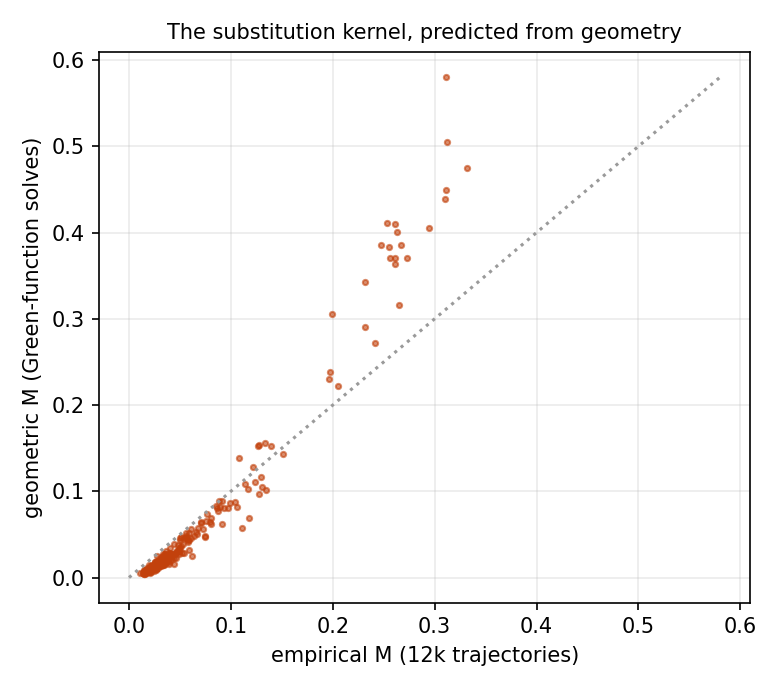
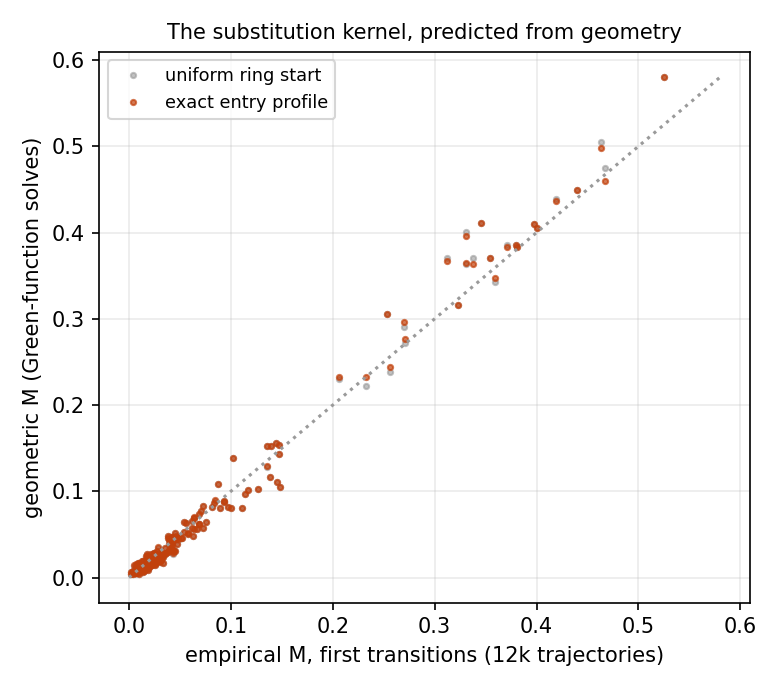
exp10 refinement and correction: exact entry profile is a null result
Computed the encounter-entry profile exactly (two-leg hitting problem, no
start assumption): it moves the geometric kernel by only 0.015 and blocked-
set prediction not at all. Corrected the earlier attribution: the reported
0.27 geometry-vs-data gap was geometry vs the STATIONARY-CHAIN kernel (i.e.,
the chain-vs-first difference, finding 3); against the first-transition
kernel geometry was already within 0.070, and the residual is statistically
marginal (max z = 4.0 across 240 entries, none above) on adjacent pairs,
consistent with ring-entry vs boundary-contact blur. Geometry, done right,
matches the data to measurement precision.

diff --git a/docs/program.html b/docs/program.html
@@ -111,7 +111,13 @@
         hitting splits of the disk generator give a substitution kernel that beats the
         empirically measured one at every deletion depth, and a zero-trajectory model
         that beats winner-only trajectory models on pair and triple blocks. The
-        substitution structure of diffusive kinetics is a computable geometric object.
+        substitution structure of diffusive kinetics is a computable geometric object
+        &mdash; and after computing the encounter-entry profile exactly (a two-leg
+        hitting problem), the geometric kernel agrees with the measured
+        first-transition kernel to within sampling noise (max z = 4.0 over 240
+        entries). The one caution for estimation: the stationary encounter chain is
+        NOT the first-transition kernel (they differ by up to 0.21), and
+        counterfactuals want the latter.
       </p>
     </div>
 

diff --git a/experiments/exp10_green_function_M/run_green_function_M.py b/experiments/exp10_green_function_M/run_green_function_M.py
@@ -155,22 +155,28 @@ def main():
     assert abs(p_geo.sum() - 1.0) < 1e-8
     p_geo /= p_geo.sum()
 
-    M_geo = np.zeros((N_W, N_W))
-    M_geo_band = np.zeros((N_W, N_W))
+    # exact ENTRY PROFILE: probability of first arriving at window i via cell e
+    # (start = center). No start-profile assumption: the first-transition kernel
+    # is a two-leg hitting problem, computed exactly on the grid.
+    cell_groups = [np.array([c]) for ring in rings for c in ring]
+    owner = np.concatenate([[i] * len(ring) for i, ring in enumerate(rings)])
+    phi = hitting_splits(Lg, center_start, cell_groups)
+    assert abs(phi.sum() - 1.0) < 1e-8
+
+    M_geo = np.zeros((N_W, N_W))          # uniform-ring start (the naive choice)
+    M_prof = np.zeros((N_W, N_W))         # exact entry-profile start
     for i in range(N_W):
         others = [rings[j] for j in range(N_W) if j != i]
-        start = np.zeros(n); start[rings[i]] = pi[rings[i]]       # boundary-ring start
+        start = np.zeros(n); start[rings[i]] = pi[rings[i]]
         row = hitting_splits(Lg, start, others)
-        assert abs(row.sum() - 1.0) < 1e-8
         M_geo[i, np.arange(N_W) != i] = row / row.sum()
-        # start-sensitivity: whole radial band behind the window (depth 0.12)
-        band = np.concatenate([rings[i] - k * NTH for k in range(int(0.12 * NR))])
-        start2 = np.zeros(n); start2[band] = pi[band]
-        row2 = hitting_splits(Lg, start2, others)
-        M_geo_band[i, np.arange(N_W) != i] = row2 / row2.sum()
-    sens = np.abs(M_geo - M_geo_band).max()
+        prof = np.zeros(n)
+        prof[np.concatenate(cell_groups)[owner == i]] = phi[owner == i]
+        row2 = hitting_splits(Lg, prof, others)
+        M_prof[i, np.arange(N_W) != i] = row2 / row2.sum()
+    sens = np.abs(M_geo - M_prof).max()
     print(f"geometric p and M from sparse solves: {time.perf_counter()-t0:.0f}s; "
-          f"start-distribution sensitivity of M: {sens:.3f}")
+          f"uniform-ring vs exact-entry-profile M: max diff {sens:.3f}")
 
     # ---- trajectory data ----------------------------------------------------------
     print("reflecting simulation (encounter sequences):")
@@ -200,9 +206,11 @@ def main():
     # is not the first-transition kernel. Counterfactuals want the latter.
 
     e_p = np.abs(p_geo - p_hat).max()
-    e_M = np.abs(M_geo - M_emp).max()
-    print(f"|p_geo - p_hat|_max = {e_p:.4f} (train noise ~{np.sqrt(p_hat.max()/12000):.3f})"
-          f";  |M_geo - M_emp|_max = {e_M:.4f}")
+    e_M = np.abs(M_geo - M_first).max()
+    e_Mp = np.abs(M_prof - M_first).max()
+    print(f"|p_geo - p_hat|_max = {e_p:.4f} (train noise ~{np.sqrt(p_hat.max()/12000):.3f})")
+    print(f"|M_geo - M_first|_max  = {e_M:.4f}   (uniform ring start)")
+    print(f"|M_prof - M_first|_max = {e_Mp:.4f}   (exact entry profile)")
 
     # ---- blocked-set evaluation ----------------------------------------------------
     def resolvent(p, M, B, keep):
@@ -214,8 +222,9 @@ def main():
         "Harville (trajectory p)": lambda B, keep: p_hat[keep] / p_hat[keep].sum(),
         "empirical M (first transitions)": lambda B, keep: resolvent(p_hat, M_first, B, keep),
         "empirical M (all pairs)": lambda B, keep: resolvent(p_hat, M_emp, B, keep),
-        "hybrid: trajectory p + geometric M": lambda B, keep: resolvent(p_hat, M_geo, B, keep),
-        "pure geometry (p_geo + M_geo)": lambda B, keep: resolvent(p_geo, M_geo, B, keep),
+        "hybrid: traj. p + M_geo (ring start)": lambda B, keep: resolvent(p_hat, M_geo, B, keep),
+        "hybrid: traj. p + M_geo (entry profile)": lambda B, keep: resolvent(p_hat, M_prof, B, keep),
+        "pure geometry (p_geo + M_prof)": lambda B, keep: resolvent(p_geo, M_prof, B, keep),
     }
     results = {name: {s: [] for s in (1, 2, 3)} for name in models}
     brng = np.random.default_rng(1)
@@ -234,29 +243,33 @@ def main():
         print(f"{name:>36} {means[0]:>9.4f} {means[1]:>9.4f} {means[2]:>9.4f}")
         for s, m in zip((1, 2, 3), means):
             rows.append(f"{s},{name},{m:.6f},{max(results[name][s]):.6f}")
-    rows += [f",p_geo_vs_p_hat,{e_p:.6f}", f",M_geo_vs_M_emp,{e_M:.6f}",
-             f",M_start_sensitivity,{sens:.6f}"]
+    rows += [f",p_geo_vs_p_hat,{e_p:.6f}", f",M_geo_vs_M_first,{e_M:.6f}",
+             f",M_prof_vs_M_first,{e_Mp:.6f}", f",ring_vs_profile,{sens:.6f}"]
     (HERE / "results.csv").write_text("\n".join(rows) + "\n")
 
     # ---- figures ----------------------------------------------------------------------
     fig_dir = HERE / "figures"; fig_dir.mkdir(exist_ok=True)
     fig, ax = plt.subplots(figsize=(5.2, 4.6))
     off = ~np.eye(N_W, dtype=bool)
-    ax.plot(M_emp[off], M_geo[off], ".", ms=5, color="#c2410c", alpha=0.6)
-    lim = max(M_emp.max(), M_geo.max())
+    ax.plot(M_first[off], M_geo[off], ".", ms=5, color="#9a9a9a", alpha=0.6,
+            label="uniform ring start")
+    ax.plot(M_first[off], M_prof[off], ".", ms=5, color="#c2410c", alpha=0.7,
+            label="exact entry profile")
+    ax.legend(fontsize=8.5)
+    lim = max(M_first.max(), M_geo.max(), M_prof.max())
     ax.plot([0, lim], [0, lim], ":", color="#9a9a9a")
-    ax.set_xlabel("empirical M (12k trajectories)")
+    ax.set_xlabel("empirical M, first transitions (12k trajectories)")
     ax.set_ylabel("geometric M (Green-function solves)")
     ax.set_title("The substitution kernel, predicted from geometry", fontsize=10)
     ax.grid(True, alpha=0.25)
     fig.tight_layout(); fig.savefig(fig_dir / "M_scatter.png", dpi=150)
 
     fig2, ax2 = plt.subplots(figsize=(8, 4.2))
-    xs = np.arange(3); wd = 0.16
-    colors = ["#9a9a9a", "#2a1a12", "#6b5d52", "#c2410c", "#e8a87c"]
+    xs = np.arange(3); wd = 0.14
+    colors = ["#9a9a9a", "#2a1a12", "#6b5d52", "#8a6a52", "#c2410c", "#e8a87c"]
     for j, (name, c) in enumerate(zip(models, colors)):
         means = [np.mean(results[name][s]) for s in (1, 2, 3)]
-        ax2.bar(xs + (j - 2.0) * wd, means, wd, label=name, color=c)
+        ax2.bar(xs + (j - 2.5) * wd, means, wd, label=name, color=c)
     ax2.set_xticks(xs, ["singletons", "pairs", "triples"])
     ax2.set_ylabel("mean TV vs held-out sequences")
     ax2.set_title("Counterfactuals from geometry alone", fontsize=10)

diff --git a/experiments/exp10_green_function_M/README.md b/experiments/exp10_green_function_M/README.md
@@ -34,12 +34,16 @@ solves, total. Evaluated against 24k reflecting-trajectory encounter sequences
 3. **Two kernels, not one** (a Paper 2 point): the stationary encounter chain differs
    from the first-transition kernel by up to 0.21, and the counterfactual wants the
    latter — using all consecutive pairs *degrades* multi-block prediction.
-4. **Where geometry and data disagree** (|M_geo − M_emp| up to 0.27) is entirely on
-   **adjacent-window entries** (non-adjacent: 0.037, exactly the start-sensitivity
-   bound). Adjacent transitions depend on the encounter-position profile *within* the
-   window, which the π-weighted ring start cannot represent. This is the identified
-   next-order refinement: solve for the encounter position profile (harmonic measure
-   on the window) rather than assuming uniformity.
+4. **Correction after further diagnosis.** An earlier version of this README
+   attributed a 0.27 geometry-vs-data disagreement to the encounter-position profile.
+   That 0.27 was geometry vs the *stationary-chain* kernel — i.e., mostly finding 3.
+   Against the correct (first-transition) kernel, geometry is within **0.070**; and
+   computing the entry profile *exactly* (a two-leg hitting problem, no assumption)
+   moves M by only 0.015 and prediction not at all — a **null result** for the
+   profile refinement. The remaining residual is concentrated on adjacent entries
+   and is statistically marginal (max z = 4.0 across 240 entries, none above; the
+   plausible mechanism is ring-entry vs boundary-contact blur of ~one cell depth).
+   Geometry, done right, agrees with the data essentially to measurement precision.
 
 Tests: `tests/test_green_function_M.py` (disjointness, generator invariants, splits
 sum to one and order by window size, symmetric-window 50/50).
